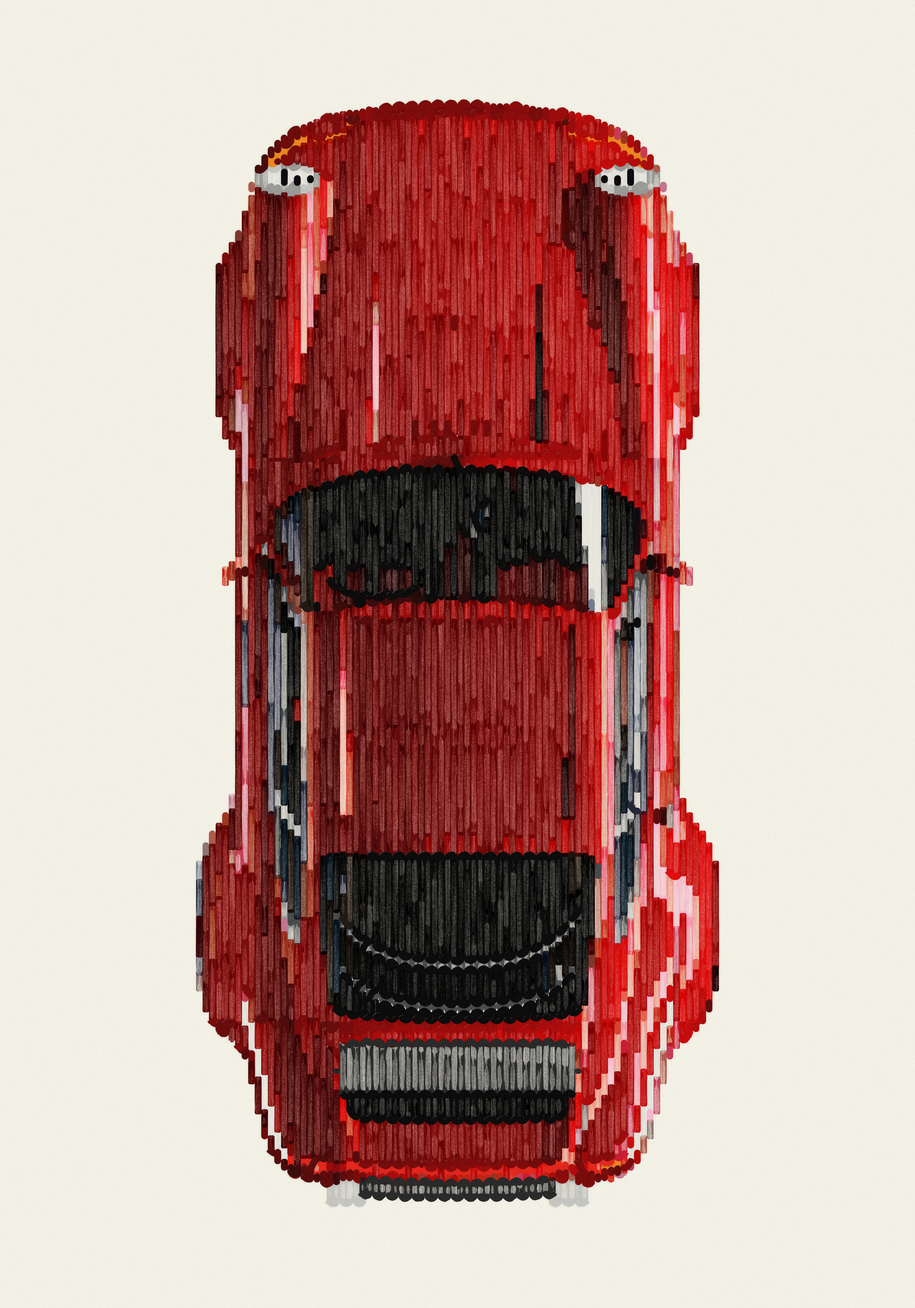
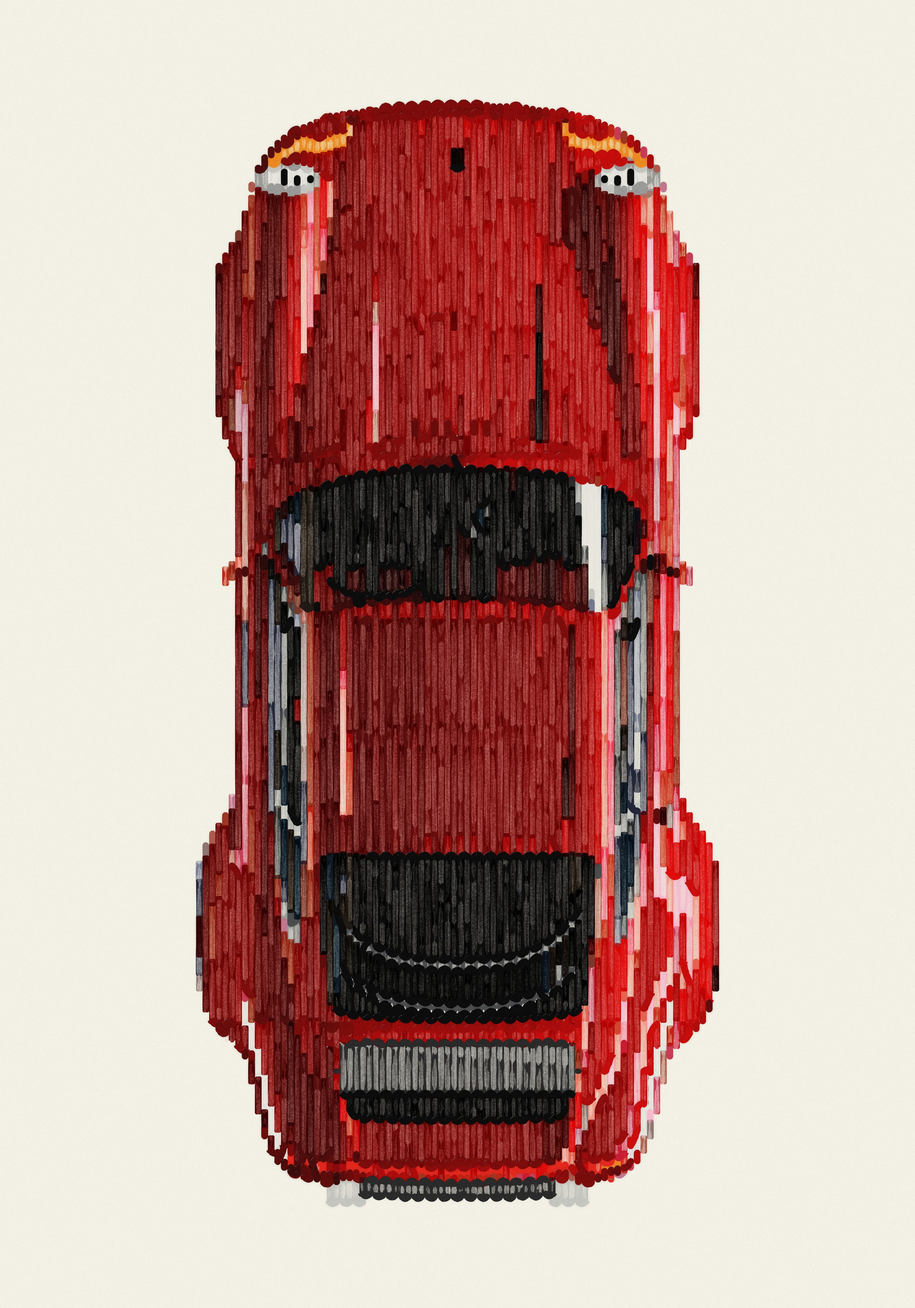
FORM-G's red 911: the indicators bright, a black mark for the crest
The owner, 2026-11-10 (FORM-G/geometry.png, the white 911 as the example):
"maybe strengthen the yellow as in the original? And a black badge on the
bonnet, so that VW or Audi do not take us to court: no Porsche logo, but a
mark one cannot read"; "the red ate the indicators".

redcar.py, touch, on the finished grid: every column of the indicators' strip
10 mm deep from its front edge (est.), the gap in it filled; two columns of
Black about the axis where the crest was. The plan made again came out byte
for byte the one in FORM-G, so nothing else moved; the white 911 as it was.
Indicator 227 -> 418 mm of line; 49 jars; DRAW BW 713 lines; DRAG 2663 dips.

Changed region(s): [[0.2167, 0.093, 0.8048, 0.93]]

diff --git a/FORM-G/generator/redcar.py b/FORM-G/generator/redcar.py
@@ -45,6 +45,13 @@ class RedCar(H.Car):
                                # so the whole car 0.8 % smaller, the green's painted 843, rather than its chrome tips cut short
     KCLUSTERS = 44             # 34 of the body's reds, 10 of the rest, in pairs: about 90 jars before the ones with next to nothing to paint are taken out. 60 gave 59 jars, the same picture (dE 9.7), more short legs
     MIN_LEGS, MIN_LINE = 4, 0.10
+    # after the plan, the owner's two marks (2026-11-10, FORM-G/geometry.png, the white 911 as the example: "maybe strengthen the yellow as in the original? And a
+    # black badge on the bonnet, so that VW or Audi do not take us to court: no Porsche logo, but a mark one cannot read"; "the red ate the indicators, so I took
+    # the white Porsche as the example"): the indicators' amber AMBER_MM deep at least, every column of it, from its front edge back into the body (the white's
+    # strip about 6–7 mm, the red picture's 1–3, under the 5 mm brush and its red neighbours' 2 mm spill a sliver: est.), a gap in the strip filled; and BADGE,
+    # where the crest was (redgeo.CREST, off since 2026-11-08), two columns of ink about the axis, the crest's height. Laid on the finished grid (touch), so not a
+    # leg of the rest of the plan moves. None leaves them out (the white 911 as it was)
+    AMBER_MM, BADGE = 10, True
 
     def __init__(self):
         self.N = int((self.W - 2 * MARGIN) / PITCH)
@@ -257,6 +264,33 @@ class RedCar(H.Car):
             rows = np.flatnonzero(hd[:, c])
             L[rows, self.N - 1 - c] = L[rows, c]
 
+    def touch(self):
+        """the owner's marks on the finished grid (AMBER_MM, BADGE): its cells, the locked ones' form (no idle run, the dark's dose); nothing else changes"""
+        names = [p.name for p in self.pal.jars]
+        G, Fm, front = self.grid, self.form, self.py < 300                     # the indicators at the front, not the tail's side lights
+        if self.AMBER_MM and 'amber' in names:
+            a, mid, depth = names.index('amber'), self.N // 2, int(round(self.AMBER_MM))
+            top = {}
+            for c in range(mid):                                                # the left one, its front edge in every column
+                rows = np.flatnonzero((G[:, c] == a) & front[:, c])
+                if len(rows):
+                    top[c] = int(rows.min())
+            cs = sorted(top)
+            for c in range(cs[0], cs[-1] + 1) if cs else []:                    # a column missing in the strip: its front edge between its neighbours'
+                if c not in top:
+                    lo, hi = max(q for q in cs if q < c), min(q for q in cs if q > c)
+                    top[c] = int(round(top[lo] + (top[hi] - top[lo]) * (c - lo) / (hi - lo)))
+            for c, r0 in top.items():
+                for cc in (c, self.N - 1 - c):                                  # the right one its mirror, column for column
+                    for r in range(r0, r0 + depth):
+                        if self.mask[r, cc] and (self.body[r, cc] or G[r, cc] == a):
+                            G[r, cc], Fm[r, cc] = a, 1
+        if self.BADGE and 'ink' in names:
+            x0, y0, x1, y1 = redgeo.CREST
+            on = (np.abs(self.px - redgeo.AXIS) * self.s * self.WIDEN < PITCH) & (self.py >= y0) & (self.py <= y1) & self.body
+            G[on], Fm[on] = names.index('ink'), 1
+        return self
+
     def plan(self):
         """hyper2's plan, every column cut at a part's edge and a seam's crossing (self.key), its carry kept on its own side of them"""
         R, N, pal = self.R, self.N, self.pal
@@ -365,6 +399,9 @@ def main(cls, default_out):
         print(f'pass {i}: dE mean {d[0]:.1f}, p90 {d[1]:.1f}, L* off {d[2]:+.1f}, chroma aim {d[3]:.1f} painted {d[4]:.1f}  [{time.time()-t0:.0f}s]', flush=True)
         if not final:
             car.plan()
+    if hasattr(car, 'touch'):                                                   # the owner's marks on the finished grid (RedCar's), and its render again
+        car.touch()
+        img, st = paint_all(car, ppm)
     save(img, out)
     two = sum(1 for p in st['per'].values() if p['coats'] == 2)
     print('legs', st['legs'], 'lifts', st['runs'], 'line m', round(st['line'] / 1000, 1), 'idle m', round(st['idle'] / 1000, 1), 'dips', int(st['dips']), 'short<12', st['shortlegs'], 'jars', len(st['per']), 'two-coat jars', two)

diff --git a/FORM-G/generator/whitecar.py b/FORM-G/generator/whitecar.py
@@ -39,6 +39,7 @@ class WhiteCar(RedCar):
     FIXED = WHITE_FIXED
     SEAM, SHADOW, WING = 'seam', ('chromeM', 'chromeD'), 'chromeM'
     KEEP = 'porsche-white.jars.json'
+    AMBER_MM, BADGE = None, None    # the red's marks of 2026-11-10 (redcar.py) not the white's: it stays as it was
 
     def source(self, g):
         wim = np.asarray(Image.open(WPHOTO).convert('RGB'), dtype=np.float32) / 255.0

diff --git a/FORM-G/generator/README.md b/FORM-G/generator/README.md
@@ -11,7 +11,7 @@ A plan is one grid of columns 5 mm apart, the brush's. Every column is solved on
 | `watchgeo.py`, `clean_photo.py`, `hyper.py` | the watch: the geometry of its dial, the printed words off, the 54 shades + 5 |
 | `cargeo.py`, `hyper2.py` | the green 911: its outline, the badges off, 60 jars made to measure |
 | `whitecar.py`, `porsche-white.jars.json` | the white 911 in the canon's form, its tones off the owner's and Kuzya's picture laid onto the canon; a colour of the canon is such a subclass of `RedCar`: its picture (`source`), its body's shadows (`tone_map`), its fixed jars |
-| `redgeo.py`, `redcar.py`, `porsche-red.jars.json` | the red classic 911 (2026-11-08), the canon of the 911's form (the owner: "I would take the red one as the canon"); its jars kept in the json, so that an edit does not re-make the palette (`RED_NEW_JARS=1` makes them again): hyper2's technique on a geometry read off the picture and made symmetric about the axis — the outline, the glass, the louvres, the lights, the cap, the panels' seams fitted to the picture's own; no leg across a part's edge or a seam; the crest and the wiper off |
+| `redgeo.py`, `redcar.py`, `porsche-red.jars.json` | the red classic 911 (2026-11-08), the canon of the 911's form (the owner: "I would take the red one as the canon"); its jars kept in the json, so that an edit does not re-make the palette (`RED_NEW_JARS=1` makes them again): hyper2's technique on a geometry read off the picture and made symmetric about the axis — the outline, the glass, the louvres, the lights, the cap, the panels' seams fitted to the picture's own; no leg across a part's edge or a seam; the crest and the wiper off; after the plan (`touch`, 2026-11-10) the indicators 10 mm deep and a black mark of two columns where the crest was, nothing else moved |
 | `distance_core.py`, `far.py`, `farcar.py` | the view from 3 and 6 m: S-CIELAB's widths of blur, a model, not a measurement |
 | `gwagongeo.py`, `gwagon.py`, `farwagon.py` | OPM-G's G-wagon on 60 × 60: its outline off a white ground, the badges off; the grille's slats on the grid, the bull bar's chrome, the headlights, the seats' red by geometry; 36 jars at most, every jar 1 m of line at least; no span under 12 mm; the view from 3 and 6 m |
 | `export_formg.py` | a finished plan into `app/formg/<id>.json` (OPM-G's into `app/opmg/`), the cells, a jar's layers |

diff --git a/CHANGELOG.md b/CHANGELOG.md
@@ -5,6 +5,14 @@ Machine measurements stay in RUBENS: `../Rubens/CALIBRATION.md`.
 
 ## After v.1.2.3 — 2026-11-10
 
+- **FORM-G's red 911: the indicators as bright as the original's, and a black mark for the crest** (the owner, 2026-11-10, `FORM-G/geometry.png`, the white 911
+  for the example: "maybe strengthen the yellow as in the original? And a black badge on the bonnet, so that VW or Audi do not take us to court: no Porsche logo, but
+  a mark one cannot read"; "the red ate the indicators, so I took the white Porsche as the example"). The red picture's amber is 1–3 mm deep, the white's 6–7 mm;
+  in the plan the Indicator's legs were 7–11 mm, a sliver once its red neighbours spill over it. Now every column of the strip 10 mm deep from its front edge
+  (est.), its missing column filled: the Indicator 227 → 418 mm of line, its legs 16–17 mm with the light's run under the dark. Where the crest was, off since
+  2026-11-08, two columns of Black about the axis, 10 × 17 mm, no shape of anything. `redcar.py`, `touch`, `AMBER_MM`, `BADGE`: laid on the finished grid, so not
+  a leg of the rest moves (the plan made again first came out byte for byte the one in FORM-G); the white 911 as it was. 49 jars as before; the red jars round the
+  strips a few mm less. DRAW BW 713 lines, 40.1 m; DRAG 2663 dips, ≈ 13 h 10 (est.). LAB's real 3 stays the piece it painted (`labreal3.js` not made again).
 - **FORM-G: DRAW BW, the contour in a pen** (the owner, 2026-11-10, before the red 911 on 70 × 100, ≈ 12 h of paint: "before working with the paints I need a
   DRAW BW key as in OPM-N: I just put a pen in the brush's place and first trace on paper, the contour, to centre the canvas and study all the details").
   `contourOf` (`formgplan.js`): every border the brush leaves between two colours, and the outline on the bare canvas — a column's colours one over another in the
